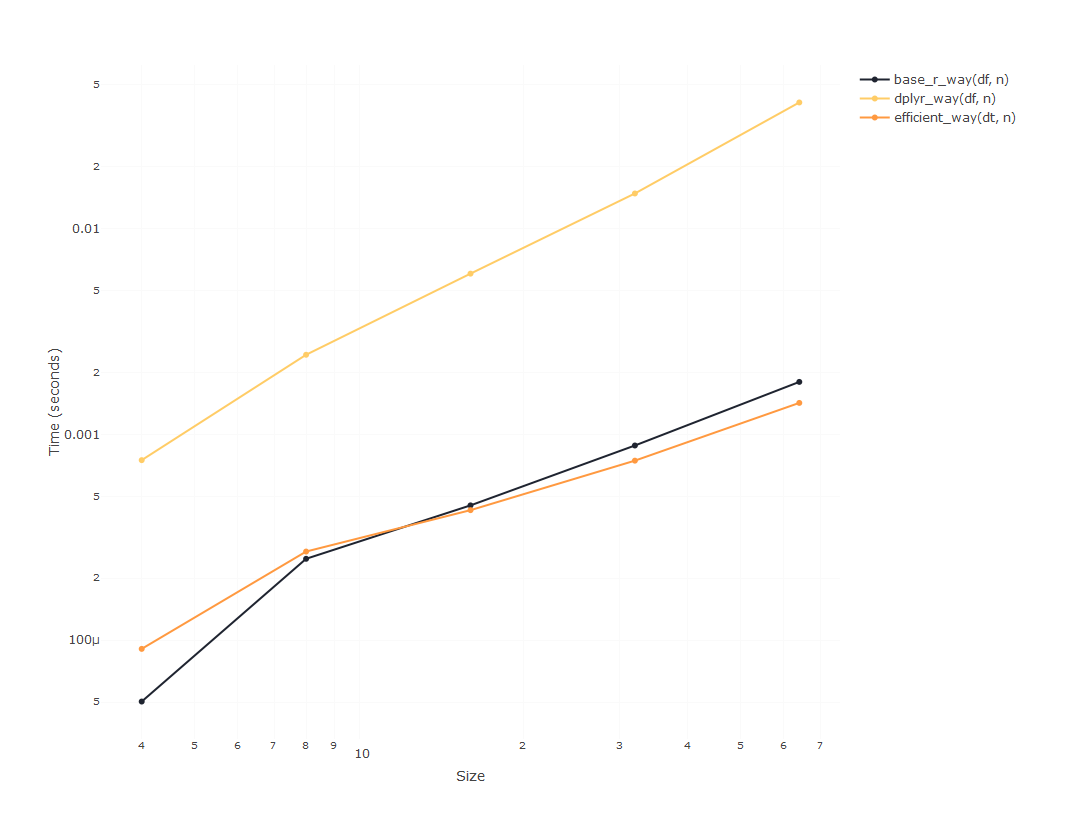
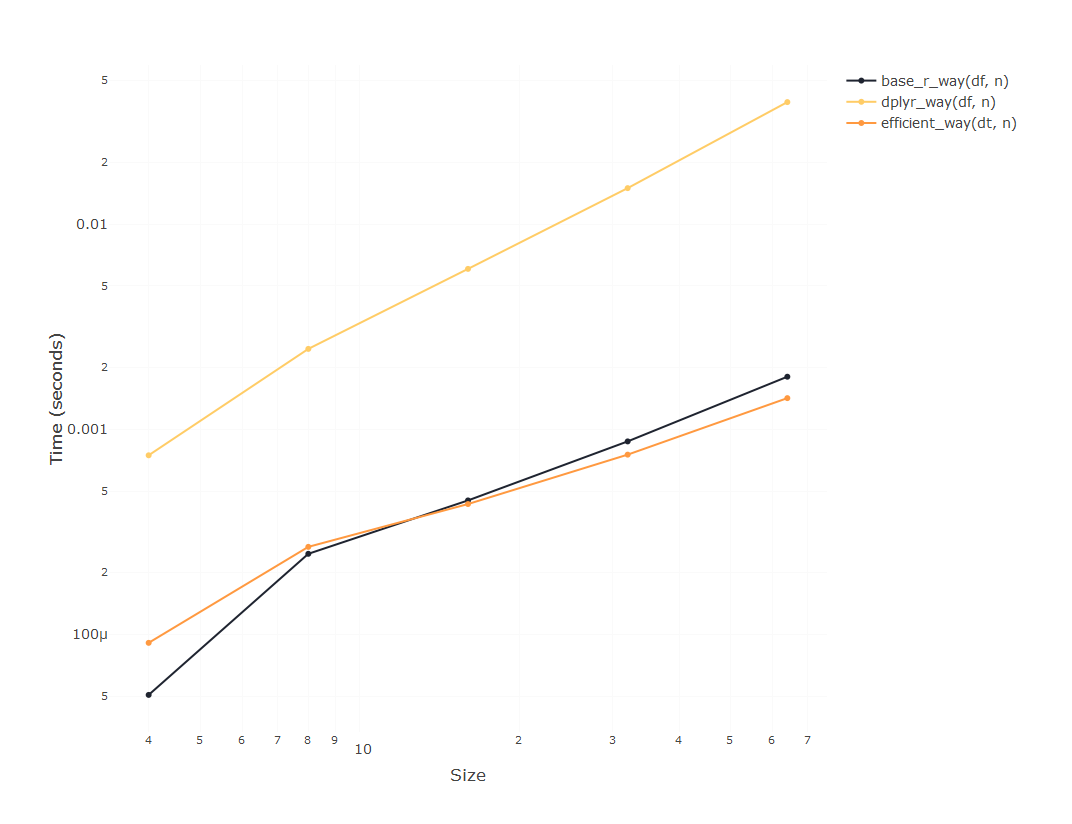
new title

diff --git a/_posts/2020-06-07-efficient-looping.md b/_posts/2020-06-07-efficient-looping.md
@@ -1,4 +1,12 @@
 
+---
+layout: post
+title: "Efficient Column Looping with R"
+categories:
+- blog
+comments: True
+---
+
 I’d bet most R developers have - or will have - faced the issue of
 having to optimise a big piece of code. Some processes might take way
 too much time, or they are filling memory space until the session
@@ -40,7 +48,8 @@ plot_results <- function(results) {
     add_trace(x = ~n, y = ~median, color = ~expression, type = "scatter", mode = "lines+markers") %>%
     layout(
       xaxis = list(type = "log", title = "Size", gridcolor = "#fafafa"),
-      yaxis = list(type = "log", title = "Time (seconds)", gridcolor = "#fafafa")
+      yaxis = list(type = "log", title = "Time (seconds)", gridcolor = "#fafafa"),
+      font = list(size = 13)
     )
 }
 

diff --git a/_posts/rmarkdown/efficient_looping.md b/_posts/rmarkdown/efficient_looping.md
@@ -42,7 +42,8 @@ results %>%
   plot_ly(colors = c("#1f2430", "#4CCFE6", "#FFCC66", "#F07171", "#FF9940")) %>% 
   add_trace(x = ~n, y = ~median, color = ~expression, type = "scatter", mode = "lines+markers") %>% 
   layout(xaxis = list(type = "log", title = "Size", gridcolor = "#fafafa"),
-         yaxis = list(type = "log", title = "Time (seconds)", gridcolor = "#fafafa"))
+         yaxis = list(type = "log", title = "Time (seconds)", gridcolor = "#fafafa"),
+         font = list(size = 14))
 }
 
 for_loop <- function(n) {
